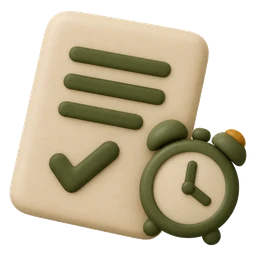
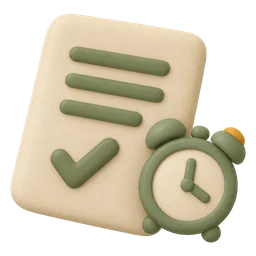
feat(art): replace the four card and result illustrations with lighter sage versions

diff --git a/lib/illustrations.test.ts b/lib/illustrations.test.ts
@@ -1,0 +1,52 @@
+import { readFileSync, statSync } from "node:fs";
+import sharp from "sharp";
+import { describe, expect, it } from "vitest";
+
+const FILES = [
+  ["continue-session", 256],
+  ["exam-card", 256],
+  ["result-retry", 640],
+  ["result-pass", 640],
+] as const;
+
+describe("the card and result illustrations", () => {
+  for (const [name, side] of FILES) {
+    const path = `public/heroes/${name}.webp`;
+
+    it(`${name}.webp is a WebP under 40 KB with an alpha channel, ${side} by ${side}`, async () => {
+      expect(statSync(path).size).toBeLessThan(40 * 1024);
+      const head = readFileSync(path).subarray(0, 12).toString("latin1");
+      expect(head.startsWith("RIFF") && head.endsWith("WEBP")).toBe(true);
+      const meta = await sharp(path).metadata();
+      expect(meta.format).toBe("webp");
+      expect(meta.hasAlpha).toBe(true);
+      expect([meta.width, meta.height]).toEqual([side, side]);
+    });
+
+    it(`${name}.webp has transparent corners and no large dark areas`, async () => {
+      const { data, info } = await sharp(path)
+        .ensureAlpha()
+        .raw()
+        .toBuffer({ resolveWithObject: true });
+      const at = (x: number, y: number) => (y * info.width + x) * 4;
+      for (const [x, y] of [
+        [1, 1],
+        [info.width - 2, 1],
+        [1, info.height - 2],
+        [info.width - 2, info.height - 2],
+      ]) {
+        expect(data[at(x, y) + 3]).toBe(0);
+      }
+      // illustrations never use large areas darker than about #5F6E40 (a few shadow pixels are fine)
+      let opaque = 0;
+      let dark = 0;
+      for (let i = 0; i < data.length; i += 4) {
+        if (data[i + 3] < 200) continue;
+        opaque += 1;
+        if (data[i] < 0x5f - 12 && data[i + 1] < 0x6e - 12 && data[i + 2] < 0x40 - 12) dark += 1;
+      }
+      expect(opaque).toBeGreaterThan(0);
+      expect(dark / opaque).toBeLessThan(0.05);
+    });
+  }
+});

diff --git a/DESIGN.md b/DESIGN.md
@@ -486,7 +486,7 @@ There is no server, no email, no network call and no key: registration, verifica
 - Data per account: every stored value (sessions, history, exams, saved questions, highlights, notifications, ...) uses one central key helper in `lib/store.ts`: the key gets the suffix `:<email>` of the signed-in account, and the auth store itself is shared. The migrated demo account keeps the old device keys (no suffix), so its data is the data that was already there. Sign out never deletes data; "Delete account" deletes the account and the data under its suffix.
 - Verification code: the constant `DEMO_CODE = "482913"` in `lib/auth-code.ts`, the only place it is written. It is always shown on the Verify screen.
 - Route guard (client, `AuthGate`; nothing is drawn until the session has been read, so protected content never flickers): without a session every route except `/welcome`, `/sign-up`, `/sign-in` and `/verify` redirects to `/welcome`; with a session the four auth routes redirect to the Home of the role (to the onboarding while `onboardingDone` is false, and every route redirects there until it is done); the role guards stay: an Instructor may open only `/instructor`, `/profile`, `/profile/edit`, `/about` and `/onboarding`, and a Student who opens `/instructor` is sent to `/`. The auth screens have no bottom navigation.
-- Training card pictures and Results pictures (21 Oct 2026; replaces "placeholders only" for these four slots, no placeholder is left): the "Continue your session" card and every Exam card on Training start with a 56 by 56 slot (`card` variant of Media3D) on the left of the text: `continue-session.webp` (a round olive play button with a sand ring arc) and `exam-card.webp` (a sand paper sheet with a check mark and a small alarm clock), 256 by 256 files of at most 20 KB. The cards grow from 64px to 88px high (16px padding around the 56px slot); the text, chevron, gaps and card style are unchanged. The Results hero (200 by 200, see Results screen) shows `result-pass.webp` or `result-retry.webp`, 640 by 640 files of at most 60 KB. All four follow the rules of the other pictures: decorative (empty `alt`, `aria-hidden`), explicit `width` and `height` equal to the displayed frame, `object-fit: contain`, no CSS shadow, no background tile, `eager` where they are first visible content, never scaled with CSS tricks (each file is cropped to its artwork plus 4% padding). Processing is the pipeline described in "Welcome and onboarding layout" (a baked-in light checkerboard removed by flood fill from the edges for the exam and pass pictures; for the already transparent play and book pictures the soft haze below alpha 60 dropped).
+- Training card pictures and Results pictures (21 Oct 2026; replaces "placeholders only" for these four slots, no placeholder is left): the "Continue your session" card and every Exam card on Training start with a 56 by 56 slot (`card` variant of Media3D) on the left of the text: `continue-session.webp` (a round muted sage play button with a sand ring arc) and `exam-card.webp` (a sand paper sheet with a check mark and a small alarm clock), 256 by 256 files of at most 40 KB. The cards grow from 64px to 88px high (16px padding around the 56px slot); the text, chevron, gaps and card style are unchanged. The Results hero (200 by 200, see Results screen) shows `result-pass.webp` or `result-retry.webp`, 640 by 640 files of at most 40 KB. All four follow the rules of the other pictures: decorative (empty `alt`, `aria-hidden`), explicit `width` and `height` equal to the displayed frame, `object-fit: contain`, no CSS shadow, no background tile, `eager` where they are first visible content, never scaled with CSS tricks (each file is cropped to its artwork plus 4% padding). Processing is the pipeline described in "Welcome and onboarding layout" (a baked-in light checkerboard removed by flood fill from the edges for the exam and pass pictures; for the already transparent play and book pictures the soft haze below alpha 60 dropped). Lighter versions (22 Oct 2026): the four pictures were replaced by lighter, softer versions in a muted sage olive and sand palette (the medal in `result-pass.webp` and the book with the repeat arrow in `result-retry.webp` use the same sage as the Mini-quiz clipboard); same file names, sizes and frames, only the files changed. Rule for every illustration: no large area darker than about #5F6E40, so the pictures stay light next to the Mini-quiz icon. A test (`lib/illustrations.test.ts`) checks that the four files exist, are WebP, are under 40 KB and have an alpha channel.
 - Welcome and onboarding layout (21 Oct 2026; replaces the hero panel of 20 Oct 2026, which is gone from these screens: no background colour, no bottom border, no rounded bottom corners, no full-bleed block; the Home hero card colour stays on Home only). The page of Welcome and of an onboarding slide is a column with a minimum height of 100dvh (`components/IntroStage`) on the normal page background, in three parts: (a) the TOP ROW, 44px high, starting 16px under the safe area, with "Skip" at the right (onboarding slides 1 and 2 only; on Welcome and slide 3 it stays as an empty spacer of the same height so nothing shifts); (b) the CENTRE GROUP, which takes all the free space (`flex: 1`) and centres its content horizontally and vertically: the 3D picture, a 24px gap, then the text block (centred text); (c) the BOTTOM BLOCK: on onboarding the position dots, a 24px gap and the pinned Primary; on Welcome the pinned Primary, the Secondary and the small note; bottom padding is the gutter plus the safe area. The 3D picture frame is 280 by 280 (`width` and `height` attributes 280, CSS width `max(200px, min(280px, 35dvh))` (35, not 34, so that it is exactly 280 on an 800px-high screen) with `aspect-ratio: 1` and `object-fit: contain`, so it shrinks on short screens but never below 200px), with no background and no shadow behind it. The text block has a fixed minimum height (a two-line title plus a three-line subtitle, content aligned to the top), so the picture and the text sit at exactly the same place on all three slides and never jump when the slide changes. When the screen is too short for everything the page scrolls and nothing overlaps. The same for Student and Instructor slides and for Welcome. Every slot is the shared Media3D component: the dashed "3D" placeholder is only the fallback when a slot has no file; the five pictures below are delivered (20 Oct 2026). A picture is decorative (empty `alt`, `aria-hidden`, explicit `width` and `height` equal to the largest displayed size, `object-fit: contain`, no CSS shadow, no background tile behind it) and is never scaled with CSS tricks: each file is cropped to its artwork plus 4% padding on every side, so it fills its frame by itself. Loading: `eager` on the first visible screen of each flow (Welcome, the first onboarding slide, Verify), `lazy` for the other onboarding slides. Processing of the files (the same pipeline as the earlier hero pictures): load with alpha; a baked-in opaque light checkerboard or white background is flood-filled away from the edges (a 1px feather, the object's own highlights stay); a soft grey haze in an already transparent picture is dropped; crop to the box of alpha above 12; pad 4% to a square; Lanczos resize; WebP with alpha, quality lowered from 90 until the budget holds. The originals stay out of the repo.
 
   | Slot | Where | Frame | File | Pixels | Budget | Size |

diff --git a/docs/build-plan.md b/docs/build-plan.md
@@ -129,7 +129,7 @@ One commit per screen group, in this order. Steps 1 to 82 are built (step 81, th
 `/screens` is a development-only page (404 in production, not linked from the navigation) that shows every planned screen at 390 by 844. Screens that are not built are dashed frames. Each screen commit replaces its frame with the real screen using sample data.
 128. Welcome and onboarding without the hero panel (21 Oct 2026): the darker panel is removed; the 3D picture (280 by 280, 35dvh, at least 200) and the text are centred together on the plain page between a 44px top row (Skip) and the bottom block (`components/IntroStage`); the picture and text sit at the same place on all slides. Screenshots: `docs/screens/119-*`.
 129. Header band on the tab screens (21 Oct 2026): Materials, Progress, Profile (Student and Instructor) and the Instructor Home stub now use `PageHeaderBand` without the Back button (tab root variant); content starts 16px below it. Student Home, Edit profile and About are unchanged. Screenshots: `docs/screens/120-*`.
-130. Four 3D pictures (21 Oct 2026): `continue-session.webp` and `exam-card.webp` (256, in the 56px slot of the Continue and Exam cards on Training) and `result-pass.webp` / `result-retry.webp` (640, the Results hero, 200px). Screenshots: `docs/screens/121-*`.
+130. Four 3D pictures (21 Oct 2026): `continue-session.webp` and `exam-card.webp` (256, in the 56px slot of the Continue and Exam cards on Training) and `result-pass.webp` / `result-retry.webp` (640, the Results hero, 200px). Screenshots: `docs/screens/121-*`. Replaced by lighter versions on 22 Oct 2026 (same names; screenshots `docs/screens/157-*`).
 131. Button hierarchy, Results and Answer review (22 Oct 2026): every second action in a pinned area or dialog is a Secondary button; Results has no readiness line (nothing stored for it); the Answer review has the new pager, the shared situation card, no Ask AI link and Next question / Back to results buttons. Screenshots: `docs/screens/122-*`.
 132. Sand navigation pill, shared Mini-quiz card with its picture, hint scrolls into view, highlight toolbar works on iPhone taps, Other topics toggle at the end of the list, Profile row icons (22 Oct 2026). Screenshots: `docs/screens/123-*`.
 133. Profile icons without a tile and a lighter sand-100 navigation pill (22 Oct 2026). Screenshots: `docs/screens/124-*`.
